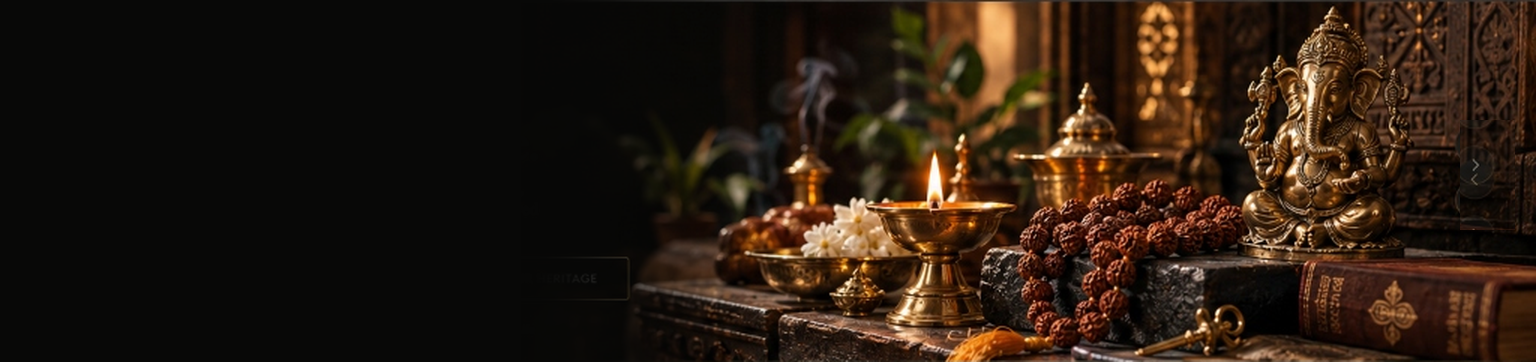
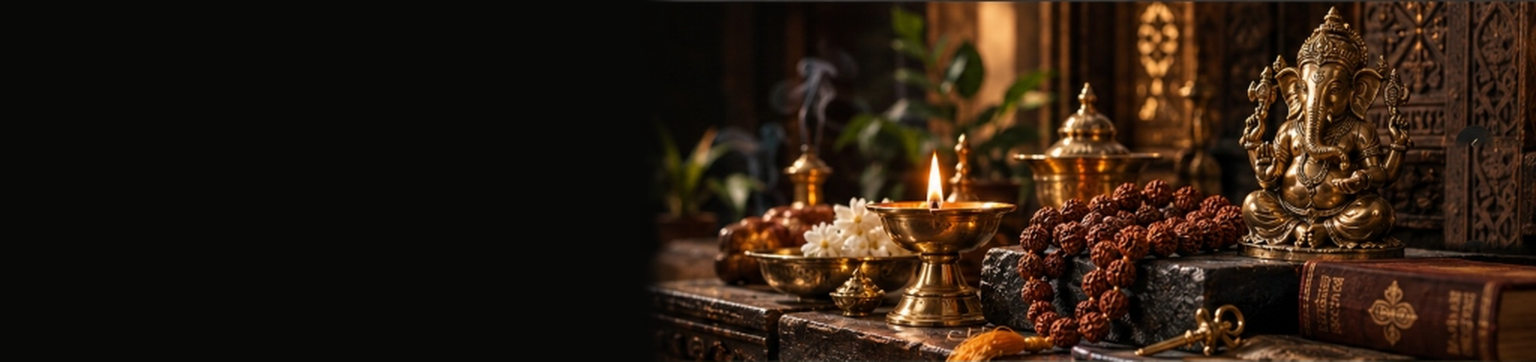
feat: convert image-based UI artifacts to real semantic accessible web components and clean hero background

diff --git a/src/components/Header.jsx b/src/components/Header.jsx
@@ -16,7 +16,7 @@ export default function Header({
   const [activeDropdown, setActiveDropdown] = useState(null);
 
   return (
-    <header className="w-full h-[88px] bg-[#070706] border-b border-[#C69A38]/25 z-40 relative select-none">
+    <header className="w-full h-[88px] bg-[#070706] border-b border-[#C69A38]/25 z-40 relative">
       <div className="max-w-[1536px] h-full mx-auto px-6 sm:px-10 lg:px-16 flex items-center justify-between">
         
         {/* LEFT BRAND AREA: x ≈ 65px, width ≈ 300px */}
@@ -89,7 +89,7 @@ export default function Header({
             onClick={onOpenSearch}
             className="hidden lg:flex items-center justify-between w-[228px] h-[37px] px-3.5 rounded-full bg-[#161411] border border-[#3A3327] hover:border-[#C69A38]/60 transition-colors cursor-pointer group"
           >
-            <span className="text-[12px] font-sans text-[#786F62] group-hover:text-[#A89D8B] transition-colors select-none">
+            <span className="text-[12px] font-sans text-[#786F62] group-hover:text-[#A89D8B] transition-colors">
               Search for products...
             </span>
             <Search size={15} className="text-[#8C806F] group-hover:text-[#E5BC5C] transition-colors" />

diff --git a/src/components/SearchModal.jsx b/src/components/SearchModal.jsx
@@ -1,9 +1,18 @@
-import React, { useState } from 'react';
+import React, { useState, useEffect } from 'react';
 import { Search, X, ArrowRight, Tag } from 'lucide-react';
 import { FEATURED_PRODUCTS, CATEGORIES } from '../data/spiritualData';
 
 export default function SearchModal({ isOpen, onClose, onSelectProduct, onSelectCategory }) {
   const [query, setQuery] = useState('');
+
+  useEffect(() => {
+    if (!isOpen) return;
+    const handleKeyDown = (e) => {
+      if (e.key === 'Escape') onClose();
+    };
+    window.addEventListener('keydown', handleKeyDown);
+    return () => window.removeEventListener('keydown', handleKeyDown);
+  }, [isOpen, onClose]);
 
   if (!isOpen) return null;
 
@@ -20,7 +29,7 @@ export default function SearchModal({ isOpen, onClose, onSelectProduct, onSelect
     : CATEGORIES.slice(0, 5);
 
   return (
-    <div className="fixed inset-0 z-50 overflow-y-auto select-none flex items-start justify-center pt-20 px-4">
+    <div className="fixed inset-0 z-50 overflow-y-auto flex items-start justify-center pt-20 px-4">
       {/* Backdrop */}
       <div 
         className="fixed inset-0 bg-black/85 backdrop-blur-md transition-opacity"

diff --git a/src/components/WishlistModal.jsx b/src/components/WishlistModal.jsx
@@ -1,14 +1,23 @@
-import React from 'react';
+import React, { useEffect } from 'react';
 import { X, Heart, ShoppingBag, Trash2 } from 'lucide-react';
 import { FEATURED_PRODUCTS } from '../data/spiritualData';
 
 export default function WishlistModal({ isOpen, onClose, wishlist, onToggleWishlist, onAddToCart }) {
+  useEffect(() => {
+    if (!isOpen) return;
+    const handleKeyDown = (e) => {
+      if (e.key === 'Escape') onClose();
+    };
+    window.addEventListener('keydown', handleKeyDown);
+    return () => window.removeEventListener('keydown', handleKeyDown);
+  }, [isOpen, onClose]);
+
   if (!isOpen) return null;
 
   const savedProducts = FEATURED_PRODUCTS.filter(p => wishlist.includes(p.id));
 
   return (
-    <div className="fixed inset-0 z-50 overflow-y-auto select-none flex items-center justify-center p-4">
+    <div className="fixed inset-0 z-50 overflow-y-auto flex items-center justify-center p-4">
       {/* Backdrop */}
       <div 
         className="fixed inset-0 bg-black/80 backdrop-blur-sm transition-opacity"

diff --git a/src/components/QuickViewModal.jsx b/src/components/QuickViewModal.jsx
@@ -1,4 +1,4 @@
-import React from 'react';
+import React, { useEffect } from 'react';
 import { X, Heart, ShoppingBag, ShieldCheck, Check, Sparkles } from 'lucide-react';
 
 export default function QuickViewModal({ 
@@ -9,10 +9,19 @@ export default function QuickViewModal({
   onToggleWishlist, 
   onAddToCart 
 }) {
+  useEffect(() => {
+    if (!isOpen) return;
+    const handleKeyDown = (e) => {
+      if (e.key === 'Escape') onClose();
+    };
+    window.addEventListener('keydown', handleKeyDown);
+    return () => window.removeEventListener('keydown', handleKeyDown);
+  }, [isOpen, onClose]);
+
   if (!isOpen || !product) return null;
 
   return (
-    <div className="fixed inset-0 z-50 overflow-y-auto select-none flex items-center justify-center p-4">
+    <div className="fixed inset-0 z-50 overflow-y-auto flex items-center justify-center p-4">
       {/* Backdrop */}
       <div 
         className="fixed inset-0 bg-black/85 backdrop-blur-md transition-opacity"

diff --git a/src/components/CartDrawer.jsx b/src/components/CartDrawer.jsx
@@ -1,13 +1,22 @@
-import React from 'react';
+import React, { useEffect } from 'react';
 import { X, Trash2, ArrowRight, ShieldCheck } from 'lucide-react';
 
 export default function CartDrawer({ isOpen, onClose, cartItems, onUpdateQty, onRemoveItem }) {
+  useEffect(() => {
+    if (!isOpen) return;
+    const handleKeyDown = (e) => {
+      if (e.key === 'Escape') onClose();
+    };
+    window.addEventListener('keydown', handleKeyDown);
+    return () => window.removeEventListener('keydown', handleKeyDown);
+  }, [isOpen, onClose]);
+
   if (!isOpen) return null;
 
   const subtotal = cartItems.reduce((acc, item) => acc + item.price * item.quantity, 0);
 
   return (
-    <div className="fixed inset-0 z-50 overflow-hidden select-none">
+    <div className="fixed inset-0 z-50 overflow-hidden">
       {/* Backdrop */}
       <div 
         className="absolute inset-0 bg-black/75 backdrop-blur-sm transition-opacity"

diff --git a/src/components/CategorySection.jsx b/src/components/CategorySection.jsx
@@ -4,7 +4,7 @@ import { CATEGORIES } from '../data/spiritualData';
 
 export default function CategorySection({ onSelectCategory }) {
   return (
-    <section className="w-full h-[283px] bg-[#F5EFE1] relative select-none border-b border-[#E1D3BA] overflow-hidden">
+    <section className="w-full min-h-[283px] py-3 bg-[#F5EFE1] relative border-b border-[#E1D3BA]">
       {/* Background subtle luxury corner linework */}
       <div className="absolute top-0 left-0 w-32 h-32 opacity-10 pointer-events-none bg-[radial-gradient(#C69A38_1px,transparent_1px)] [background-size:16px_16px]" />
       <div className="absolute top-0 right-0 w-32 h-32 opacity-10 pointer-events-none bg-[radial-gradient(#C69A38_1px,transparent_1px)] [background-size:16px_16px]" />

diff --git a/src/components/FeaturedProducts.jsx b/src/components/FeaturedProducts.jsx
@@ -9,7 +9,7 @@ export default function FeaturedProducts({
   onQuickView
 }) {
   return (
-    <section id="featured-products" className="w-full bg-[#0A0806] border-t border-[#231A12] pt-6 pb-16 relative select-none">
+    <section id="featured-products" className="w-full bg-[#0A0806] border-t border-[#231A12] pt-6 pb-16 relative">
       {/* Background subtle cinematic architectural atmosphere */}
       <div className="absolute inset-0 bg-gradient-to-b from-[#130E09] via-[#0A0806] to-[#060504] opacity-95 pointer-events-none" />
       <div className="absolute top-0 right-0 w-[420px] h-[420px] bg-[#C69A38]/5 rounded-full blur-3xl pointer-events-none" />

diff --git a/src/components/Hero.jsx b/src/components/Hero.jsx
@@ -43,7 +43,7 @@ export default function Hero({ onExploreClick, onHeritageClick }) {
   const prevSlide = () => setCurrentSlide((prev) => (prev - 1 + slides.length) % slides.length);
 
   return (
-    <section className="relative w-full min-h-[360px] h-auto py-8 sm:py-0 sm:h-[360px] bg-[#0c0a07] overflow-hidden select-none border-b border-[#251d14]">
+    <section className="relative w-full min-h-[360px] h-auto py-8 sm:py-0 sm:h-[360px] bg-[#0c0a07] overflow-hidden border-b border-[#251d14]">
       {/* Background Cinematic Spiritual Still-Life */}
       <div 
         className="absolute inset-0 w-full h-full bg-cover bg-right lg:bg-center"

diff --git a/src/components/AnnouncementBar.jsx b/src/components/AnnouncementBar.jsx
@@ -10,7 +10,7 @@ const LotusIcon = ({ className = "h-[14px] w-auto" }) => (
 
 export default function AnnouncementBar({ onOpenModal }) {
   return (
-    <div className="w-full h-[34px] bg-[#28180a] border-b border-[#C69A38]/30 select-none flex items-center justify-between px-6 sm:px-12 md:px-16 z-50 relative">
+    <div className="w-full h-[34px] bg-[#28180a] border-b border-[#C69A38]/30 flex items-center justify-between px-6 sm:px-12 md:px-16 z-50 relative">
       {/* Left Lotus ornament */}
       <div className="hidden sm:flex items-center pl-1">
         <LotusIcon className="h-[14px] w-auto" />

diff --git a/src/components/Footer.jsx b/src/components/Footer.jsx
@@ -3,7 +3,7 @@ import { Mail, ArrowRight, ShieldCheck, Sparkles, Compass } from 'lucide-react';
 
 export default function Footer() {
   return (
-    <footer className="w-full bg-[#070605] border-t border-[#2A2116] text-[#A69B88] font-sans text-[13px] pt-12 pb-8 select-none">
+    <footer className="w-full bg-[#070605] border-t border-[#2A2116] text-[#A69B88] font-sans text-[13px] pt-12 pb-8">
       <div className="max-w-[1536px] mx-auto px-6 sm:px-12 lg:px-16">
         
         {/* Top Trust Columns */}

diff --git a/src/components/BrandPrinciples.jsx b/src/components/BrandPrinciples.jsx
@@ -66,7 +66,7 @@ export default function BrandPrinciples() {
   ];
 
   return (
-    <section className="w-full h-[94px] bg-[#F7F2E7] border-b border-[#E3D7C1] relative select-none flex items-center overflow-hidden">
+    <section className="w-full min-h-[94px] py-4 lg:py-0 bg-[#F7F2E7] border-b border-[#E3D7C1] relative flex items-center">
       {/* Background subtle ornamental linework pattern */}
       <div 
         className="absolute inset-0 opacity-[0.03] pointer-events-none bg-repeat"
